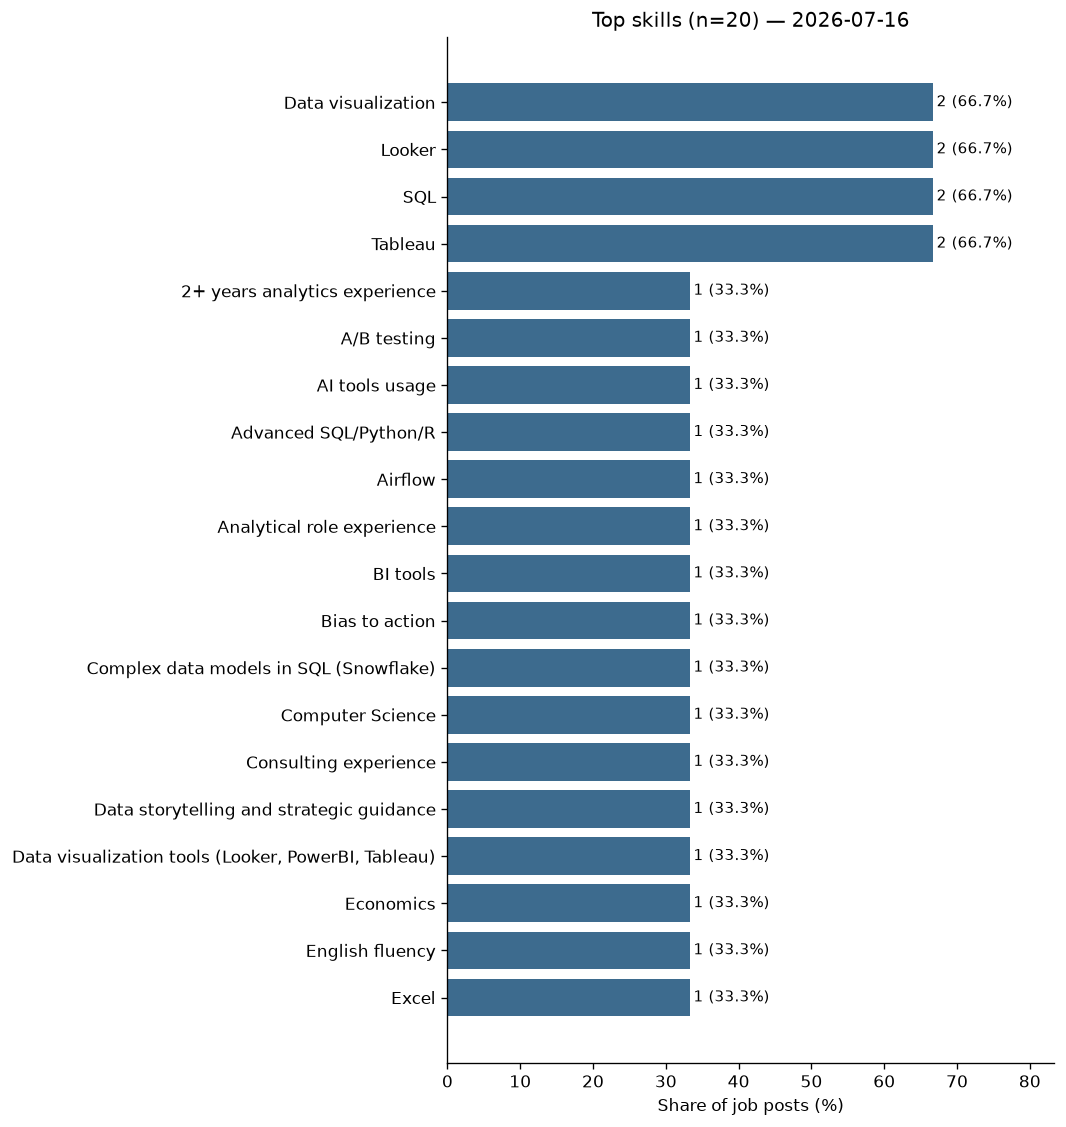
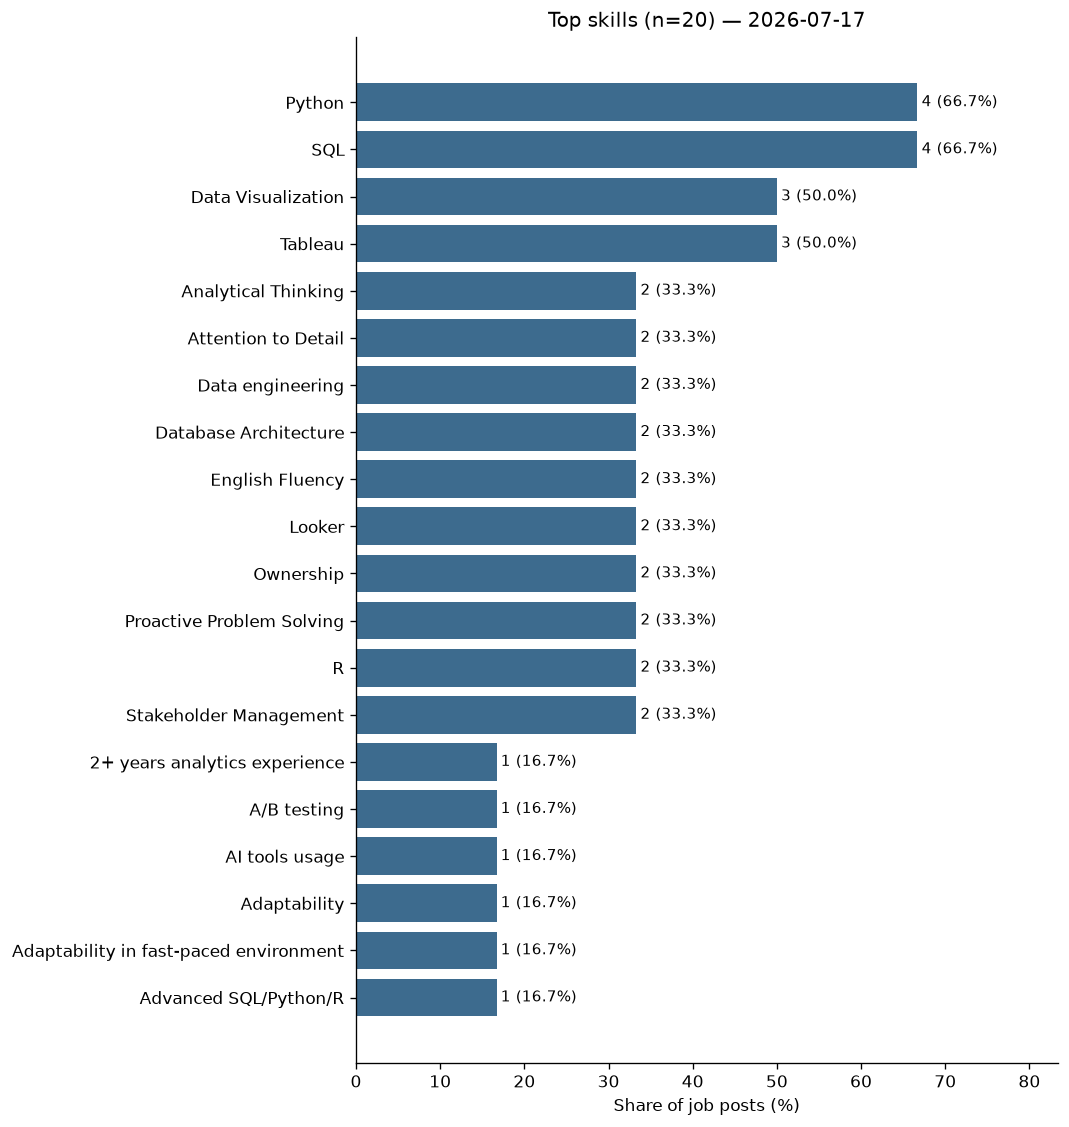
Fixed code. Updated README.

diff --git a/app.py b/app.py
@@ -362,7 +362,7 @@ def _stats_table(items: list) -> None:
             for i, item in enumerate(items, start=1)
         ],
         hide_index=True,
-        use_container_width=True,
+        width="stretch",
     )
 
 
@@ -432,17 +432,17 @@ def _render_statistics() -> None:
         st.subheader("Top companies")
         _stats_table(stats.get("top_companies") or [])
         if os.path.exists(COMPANIES_PNG):
-            st.image(COMPANIES_PNG, use_container_width=True)
+            st.image(COMPANIES_PNG, width="stretch")
     with c2:
         st.subheader("Top job titles")
         _stats_table(stats.get("top_job_titles") or [])
         if os.path.exists(JOB_TITLES_PNG):
-            st.image(JOB_TITLES_PNG, use_container_width=True)
+            st.image(JOB_TITLES_PNG, width="stretch")
 
     st.subheader("Top skills")
     _stats_table(stats.get("top_skills") or [])
     if os.path.exists(SKILLS_PNG):
-        st.image(SKILLS_PNG, use_container_width=True)
+        st.image(SKILLS_PNG, width="stretch")
 
 
 _render_statistics()

diff --git a/README.md b/README.md
@@ -1,8 +1,8 @@
 # Job Preparation Multiagent AI
 
-A multi-agent AI system that helps you prepare for a **specific job application**: paste a job posting and your CV, and the system evaluates fit, analyzes the skill gap against the deadline, builds a prioritized learning plan (with optional real web resources), tailors your CV, and drafts a motivation letter — all grounded in that specific role, not generic advice.
+AI orchestration tool to help you prepare for a **specific job application**: paste a job posting and your CV, and the system evaluates fit, analyzes the skill gap against the deadline, builds a prioritized learning plan (with optional real web resources), tailors your CV, and drafts a motivation letter — all grounded in that specific role, not generic advice.
 
-Built as a portfolio project demonstrating agentic AI system design: multi-agent orchestration, structured outputs, tool use (web search), local persistence, and a resilient pipeline.
+Built as a portfolio project demonstrating AI system design: multi-agent orchestration, structured outputs, tool use (web search), local persistence, and a resilient pipeline.
 
 ## Why this project
 